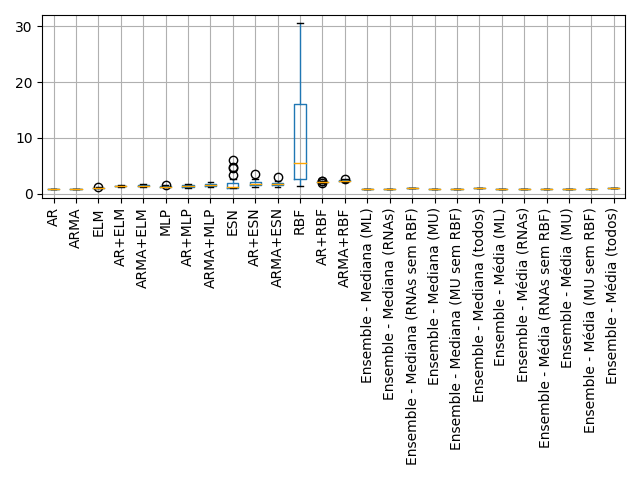
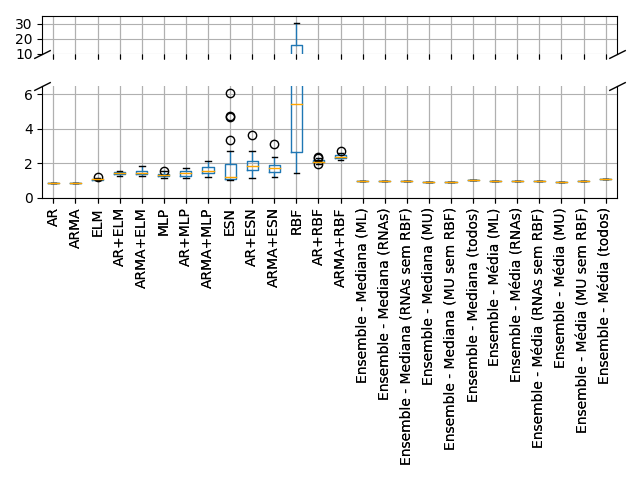
plot another graph

diff --git a/boxplot.py b/boxplot.py
@@ -2,31 +2,31 @@ import matplotlib.pyplot as plt
 from pandas import read_csv as csv
 
 
-base = "SaoLuiz"
+base = "Natal"
 
 dataframe = csv("C:\\Users\\Licon\\Dropbox\\Utfpr\\Mestrado\\Matérias\\IA\\Boxplot\\time-series-output\\output" + base
                 + "\\all_mse.csv", index_col="Unnamed: 0")
 
-dataframe = dataframe[["ELM","AR+ELM","ARMA+ELM","MLP","AR+MLP","ARMA+MLP","ESN","AR+ESN","ARMA+ESN","RBF","AR+RBF","ARMA+RBF"]]
+#dataframe = dataframe[["ELM","AR+ELM","ARMA+ELM","MLP","AR+MLP","ARMA+MLP","ESN","AR+ESN","ARMA+ESN","RBF","AR+RBF","ARMA+RBF"]]
 
-'''fig, (ax1, ax2) = plt.subplots(2, 1, sharex=True
+fig, (ax1, ax2) = plt.subplots(2, 1, sharex=True
                                , gridspec_kw={'height_ratios': [1, 3]}
                                )
 
 dataframe.boxplot(ax=ax1, medianprops=dict(color='orange'))
 ax1.set_xlabel('')
-ax1.set_ylim(ymin=169,ymax=172.5)'''
-fig, ax1 = plt.subplots()
-dataframe.boxplot(rot=90, medianprops=dict(color='orange'))
-'''ax2.set_title('')
-ax2.set_ylim(ymin=0,ymax=1.15)
+ax1.set_ylim(ymin=10,ymax=35)
+#fig, ax1 = plt.subplots()
+dataframe.boxplot(ax=ax2, rot=90, medianprops=dict(color='orange'))
+ax2.set_title('')
+ax2.set_ylim(ymin=0,ymax=6.5)
 fig.subplots_adjust(top=0.3)
 
 ax1.spines.bottom.set_visible(False)
 ax2.spines.top.set_visible(False)
-ax1.xaxis.set_visible(False)
-ax1.grid(visible=False)
-ax2.grid(visible=False)
+ax1.xaxis.set_visible(True)
+ax1.grid(visible=True)
+ax2.grid(visible=True)
 ax1.tick_params(labeltop=False)
 ax2.xaxis.tick_bottom()
 
@@ -34,7 +34,7 @@ d = .5  # proportion of vertical to horizontal extent of the slanted line
 kwargs = dict(marker=[(-1, -d), (1, d)], markersize=12,
               linestyle="none", color='k', mec='k', mew=1, clip_on=False)
 ax1.plot([0, 1], [0, 0], transform=ax1.transAxes, **kwargs)
-ax2.plot([0, 1], [1, 1], transform=ax2.transAxes, **kwargs)'''
+ax2.plot([0, 1], [1, 1], transform=ax2.transAxes, **kwargs)
 
 '''plt.set_figheight(8)
 plt.set_figwidth(10)'''
@@ -42,4 +42,4 @@ plt.tight_layout()
 #plt.show()
 
 fig.savefig("C:\\Users\\Licon\\Dropbox\\Utfpr\\Mestrado\\Matérias\\IA\\Boxplot\\time-series-output\\output" + base
-                + "/boxplot.png", format="png")
+               + "/boxplot.png", format="png")

diff --git a/ensemble.py b/ensemble.py
@@ -3,7 +3,7 @@ from pandas import read_csv as csv
 from sklearn.metrics import mean_squared_error as MSE, mean_absolute_error as MAE
 
 
-base = "SaoLuiz"
+base = "Natal"
 
 df_y = csv("C:\\Users\\Licon\\Dropbox\\Utfpr\\Mestrado\\Matérias\\IA\\Boxplot\\time-series-output\\output" + base
                 + "\\saida_teste_mse.csv", index_col="Unnamed: 0", sep=';')
